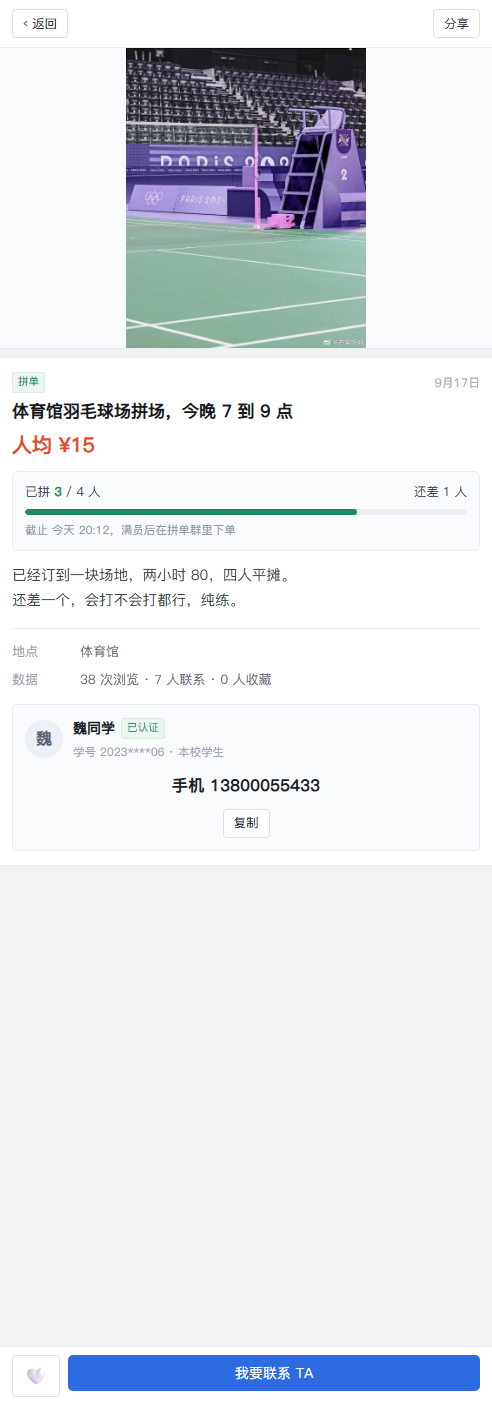
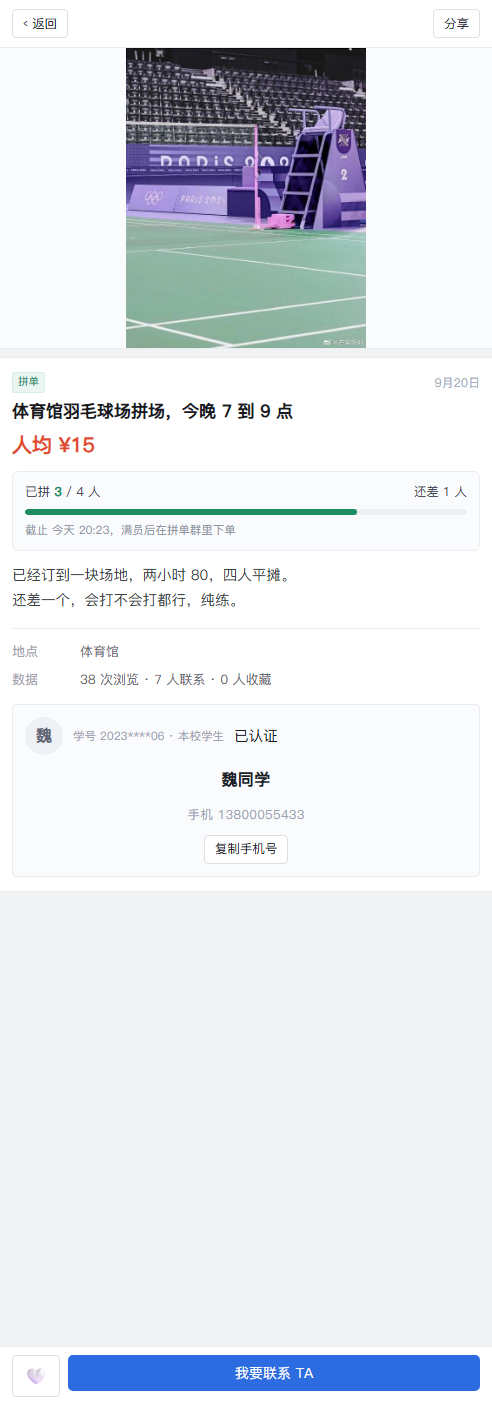
feat: 校园信息墙 v1（单文件 H5）
- 失物招领 / 二手转让双板块，60 条示例内容，每条配一张实拍图
- 学号注册登录、收藏（再点一次取消、按账号存）、我的发布（改状态 / 删除）
- 管理员后台：8 个指标、四步转化漏斗、14 天趋势、渠道归因、CSV 导出
- 埋点模型 {t, ev, id, uid, ch}，纯前端 localStorage，业务与存储之间只隔 DB.get / DB.set

diff --git a/index.html b/index.html
@@ -650,16 +650,18 @@ function viewItem(id){
       '<div class="who-row">' +
         '<span class="ava">'+esc(String(it.author || '匿').slice(0,1))+'</span>' +
         '<div class="who-main">' +
-          '<div class="who-name">'+esc(it.author || '匿名同学')+(mine ? '（我）' : '')+'<span class="ok">已认证</span></div>' +
-          '<div class="who-sub">学号 '+authorSid(it)+' · 本校学生</div>' +
+          '<div class="who-sub" style="margin-top:0">学号 '+authorSid(it)+' · 本校学生</div>' +
         '</div>' +
+        '<span class="ok">已认证</span>' +
       '</div>' +
+      '<div class="c-line">'+esc(it.author || '匿名同学')+(mine ? '（我）' : '')+'</div>' +
       (logged
         ? (it.contact
-            ? '<div class="c-line">'+esc(it.contact)+'</div>' +
-              '<button class="btn ghost sm" data-act="copy" data-v="'+esc(it.contact)+'">复制</button>'
-            : '<div class="c-line muted">对方没留联系方式，可以先在评论区问</div>')
-        : '<button class="btn" style="width:100%" data-act="needlogin">登录后查看联系方式</button>') +
+            ? '<div class="c-line muted">手机 '+esc(String(it.contact).replace(/^手机\s*/, ''))+'</div>' +
+              '<button class="btn ghost sm" data-act="copy" data-v="'+esc(it.contact)+'">复制手机号</button>'
+            : '<div class="c-line muted">对方没留联系方式，可以先在「我的」里留言问</div>')
+        : '<div class="c-line muted">账号已认证，登录后可见联系方式</div>' +
+          '<button class="btn" style="width:100%" data-act="needlogin">登录后查看联系方式</button>') +
     '</div>';
 
   var faved = isFav(it.id);
